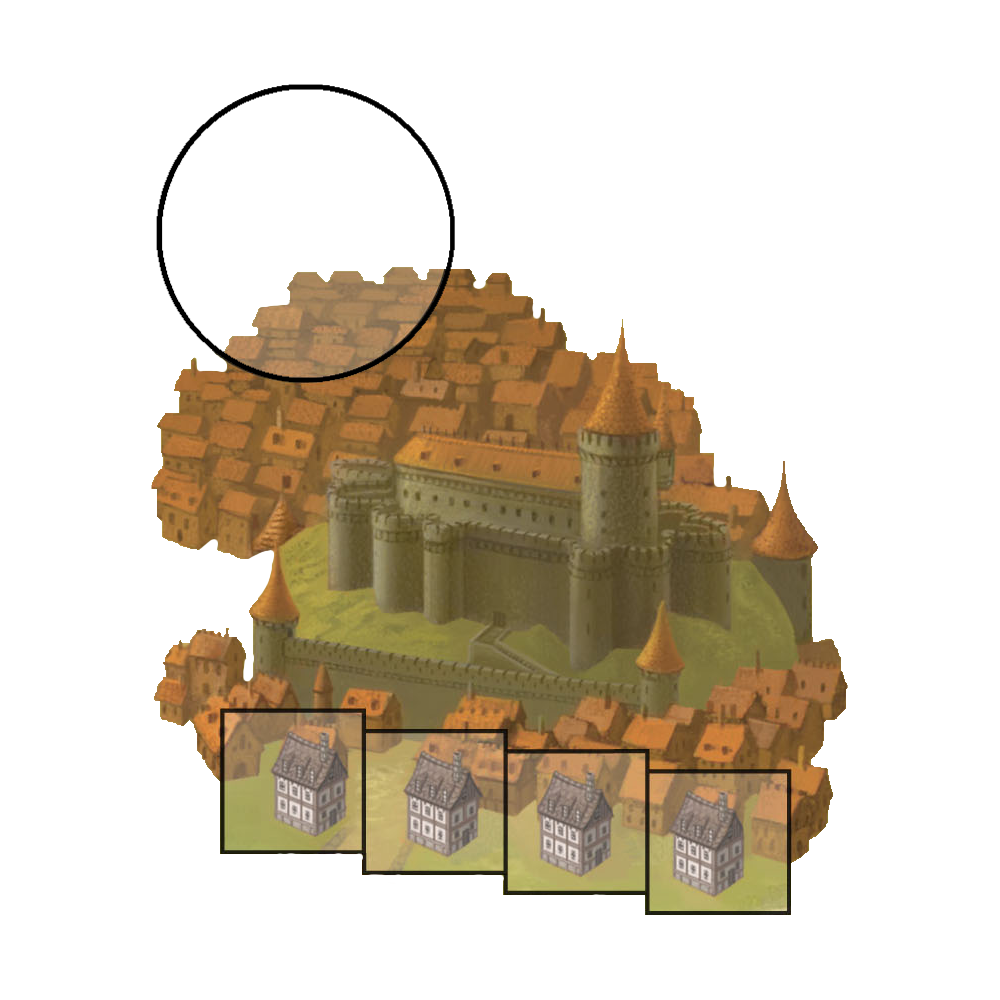
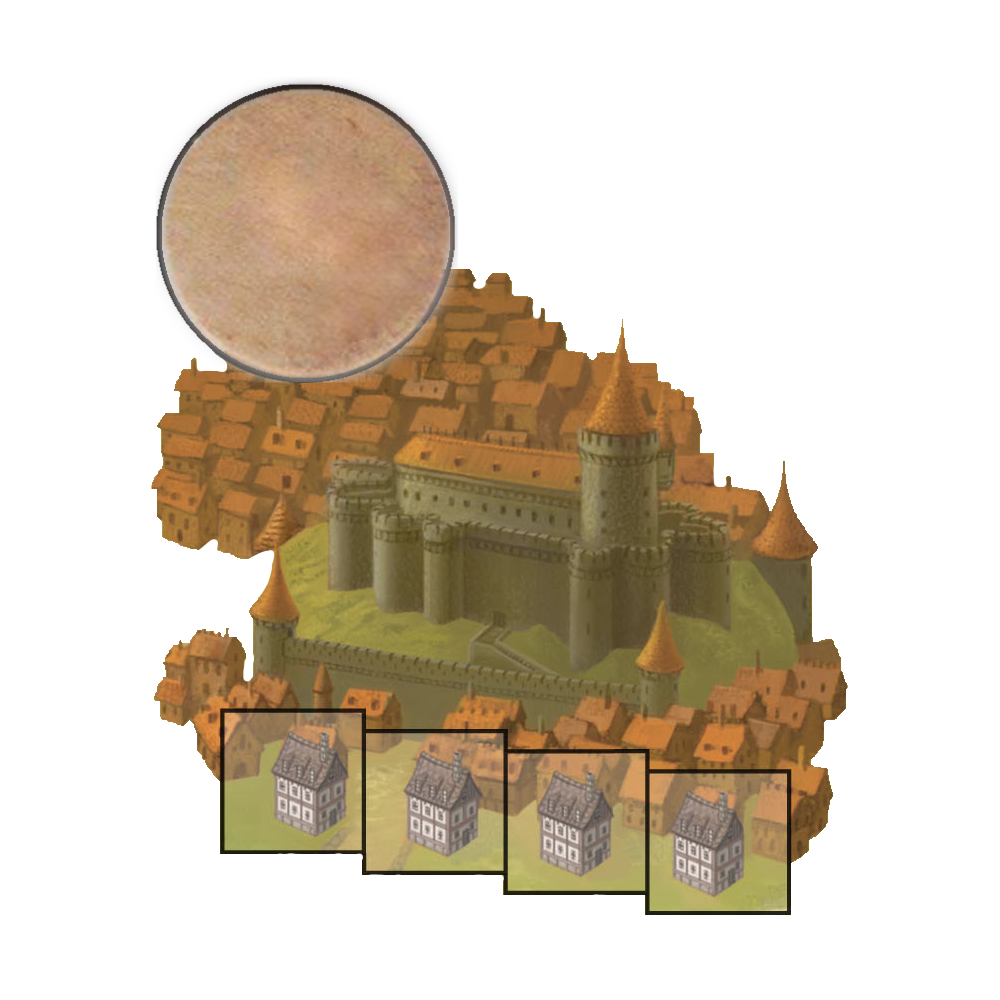
Improve GUI.

Changed region(s): [[0.155, 0.062, 0.465, 0.403]]

diff --git a/src/main/java/it/polimi/ingsw/cg26/client/GUIClient.java b/src/main/java/it/polimi/ingsw/cg26/client/GUIClient.java
@@ -51,7 +51,7 @@ public class GUIClient extends Application {
 
     private final Logger log = LoggerFactory.getLogger(getClass());
 
-    private final static double RATIO = 7.0d / 6.0d;
+    private final static double RATIO = 2.0d / 1.7d;
 
     private final static String DEFAULT_IP = "127.0.0.1";
 
@@ -81,7 +81,7 @@ public class GUIClient extends Application {
 
         AnchorPane root = new AnchorPane();
 
-        root.setStyle("-fx-background-image: url(" + getClass().getResource("/img/map.jpg") + ");" +
+        root.setStyle("-fx-background-image: url(" + getClass().getResource("/img/map.png") + ");" +
                       "-fx-background-position: center;" +
                       "-fx-background-size: 100% 100%;");
 
@@ -386,6 +386,7 @@ public class GUIClient extends Application {
             Pane bonusPane = constructBonus(0.04 * root.getHeight(), 0.04 * root.getHeight(), city.getBonuses());
             AnchorPane.setLeftAnchor(bonusPane, 0.030 * root.getHeight());
             AnchorPane.setTopAnchor(bonusPane, 0.020 * root.getHeight());
+            //bonusPane.setRotate((new Random().nextDouble() - 0.5) * 60.0);
             pane.getChildren().add(bonusPane);
         }
         citiesPanes.put(city, pane);
@@ -394,7 +395,6 @@ public class GUIClient extends Application {
 
     private Pane constructBonus(double width, double height, BonusDTO bonus) {
         GridPane pane = new GridPane();
-        //pane.setStyle("-fx-background-color: burlywood;");
         pane.setPrefWidth(width);
         pane.setPrefHeight(height);
         List<String> bonusesStrings = Arrays.asList(bonus.toString().split(","));
@@ -411,15 +411,15 @@ public class GUIClient extends Application {
             if (bonusString.contains("Coins"))
                 styleString += "-fx-background-image: url(" + getClass().getResource("/img/bonuses/coins.png") + ");";
             if (bonusString.contains("Main"))
-                styleString += "-fx-background-image: url(" + getClass().getResource("/img/bonuses/.png") + ");";
+                styleString += "-fx-background-image: url(" + getClass().getResource("/img/bonuses/main.png") + ");";
             if (bonusString.contains("Nobility"))
                 styleString += "-fx-background-image: url(" + getClass().getResource("/img/bonuses/nobility.png") + ");";
             if (bonusString.contains("Take BPT"))
-                styleString += "-fx-background-image: url(" + getClass().getResource("/img/bonuses/.png") + ");";
+                styleString += "-fx-background-image: url(" + getClass().getResource("/img/bonuses/TakeTileBonus.png") + ");";
             if (bonusString.contains("Take Player"))
-                styleString += "-fx-background-image: url(" + getClass().getResource("/img/bonuses/.png") + ");";
+                styleString += "-fx-background-image: url(" + getClass().getResource("/img/bonuses/TakeCityBonus.png") + ");";
             if (bonusString.contains("Take Your"))
-                styleString += "-fx-background-image: url(" + getClass().getResource("/img/bonuses/.png") + ");";
+                styleString += "-fx-background-image: url(" + getClass().getResource("/img/bonuses/takeYour.png") + ");";
             if (bonusString.contains("Victory"))
                 styleString += "-fx-background-image: url(" + getClass().getResource("/img/bonuses/victory.png") + ");";
             styleString += "-fx-background-position: center;-fx-background-size: 100%; -fx-background-repeat: no-repeat;";
@@ -445,7 +445,7 @@ public class GUIClient extends Application {
 
     private Pane constructBPT(double width, double height, BusinessPermissionTileDTO tile) {
         AnchorPane pane = new AnchorPane();
-
+        pane.setRotate((new Random().nextDouble() - 0.5) * 15.0);
         DropShadow shadow = new DropShadow();
         shadow.setRadius(4.0);
         shadow.setColor(Color.BLACK);
@@ -453,7 +453,7 @@ public class GUIClient extends Application {
 
         pane.setPrefSize(width, height);
         pane.setMaxSize(width, height);
-        pane.setStyle("-fx-background-image: url(" + getClass().getResource("/img/bpt.png") + ");" +
+        pane.setStyle("-fx-background-image: url(" + getClass().getResource("/img/cards/bpt.png") + ");" +
                       "-fx-background-position: center;" +
                       "-fx-background-size: 100% 100%;");
         //System.out.println(tile.toString());
@@ -469,8 +469,8 @@ public class GUIClient extends Application {
         Label label = new Label(cities);
         Font goudyMedieval = Font.loadFont(getClass().getResource("/fonts/goudy_medieval/Goudy_Mediaeval_DemiBold.ttf").toExternalForm(), 0.25 * width);
         label.setFont(goudyMedieval);
-        AnchorPane.setLeftAnchor(label, width / 3.0);
-        AnchorPane.setTopAnchor(label, height / 4.0);
+        AnchorPane.setLeftAnchor(label, width / 2.0 - tile.getCities().size() * width / 8.0);
+        AnchorPane.setTopAnchor(label, height / 6.0);
         pane.getChildren().add(label);
 
         Pane bonusPane = constructBonus(width / 2.0, width / 2, tile.getBonuses());
